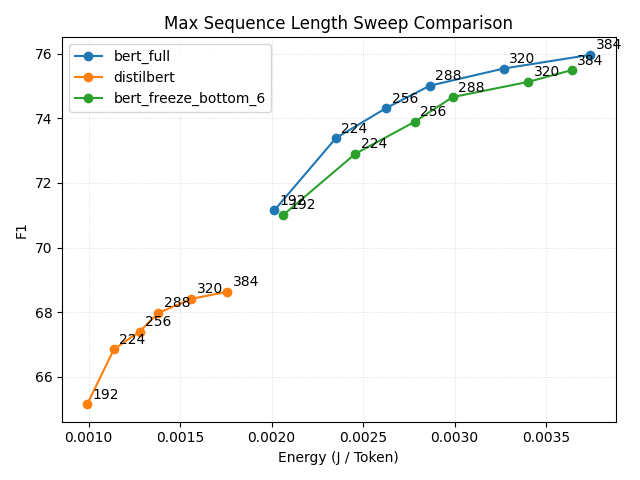
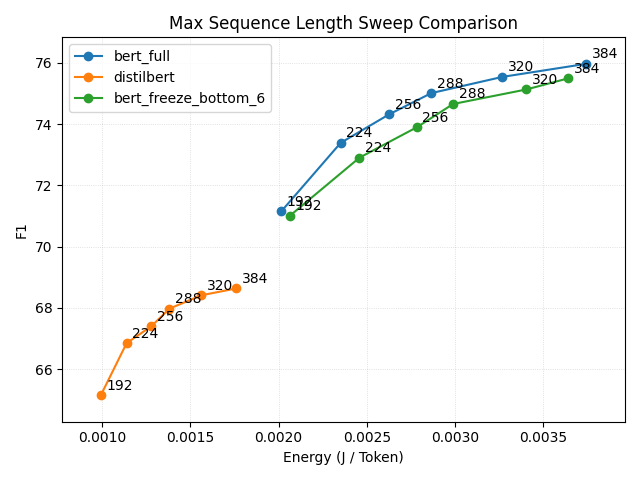
Improve chart axes scales in Pareto plotting functions

diff --git a/src/evaluation/pareto_plots.py b/src/evaluation/pareto_plots.py
@@ -43,9 +43,9 @@ def plot_single_sequence_length_sweep(
     plt.figure()
     plt.plot(x_values, y_values, marker="o")
 
-    # Add margins so point labels do not clip.
-    x_margin = (max(x_values) - min(x_values)) * 0.05
-    y_margin = (max(y_values) - min(y_values)) * 0.05
+    # Add margins so point labels do not clip
+    x_margin = (max(x_values) - min(x_values)) * 0.08
+    y_margin = (max(y_values) - min(y_values)) * 0.08
 
     plt.xlim(min(x_values) - x_margin, max(x_values) + x_margin)
     plt.ylim(min(y_values) - y_margin, max(y_values) + y_margin)
@@ -65,7 +65,6 @@ def plot_single_sequence_length_sweep(
     plt.tight_layout()
     plt.savefig(output_path)
     plt.close()
-
 
 # Plot overlay comparison across multiple sweep CSV files
 def plot_sequence_length_sweep_comparison(
@@ -122,11 +121,6 @@ def plot_sequence_length_sweep_comparison(
         for row in rows_sorted:
             x_value = float(row[x_field_name])
             y_value = float(row[y_field_name])
-
-            # Move labels inward when points are near the right or top border.
-            # x_offset = -18 if x_value > (x_max_with_margin - 0.15 * x_range) else 4
-            # y_offset = -10 if y_value > (y_max_with_margin - 0.15 * y_range) else 4
-
             x_offset = 4
             y_offset = 4
 
